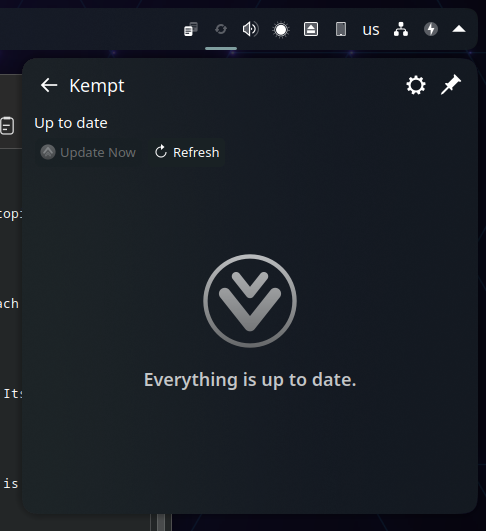
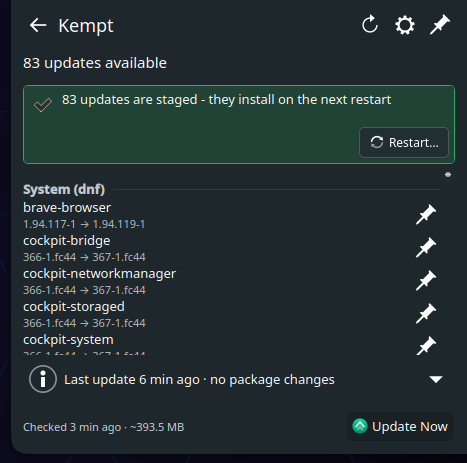
docs: the README screenshot shows the redesigned popup
Founder's live capture from the offline-flow gate (83 updates staged and
armed), cropped to the popup. Replaces the pre-redesign screenshot and
retires the owed-a-retake note.

diff --git a/README.md b/README.md
@@ -4,14 +4,10 @@ One-click system updates for Fedora: a finished CLI, and a KDE Plasma panel widg
 
 [![License: MIT](https://img.shields.io/badge/License-MIT-yellow.svg)](LICENSE)
 
-![Kempt in the Plasma system tray, popup open](docs/images/kempt-tray-popup.png)
+![Kempt's tray popup: 83 updates pending, staged to install on the next restart](docs/images/kempt-tray-popup.png)
 
-*Kempt as a system-tray entry on Plasma 6, with the popup open on a fully updated box. The
-tray icon follows your icon theme (this one is kora).*
-
-> **This screenshot predates the popup redesign and is owed a retake.** The popup it shows
-> has a row of buttons under the heading; today it has a message area, a list and a footer,
-> and the primary button is gone entirely in the up-to-date state pictured here.
+*The tray popup with 83 updates pending: staged to install on the next restart, pins to hold
+any package back, and the download size in the footer.*
 
 ## Why
 
